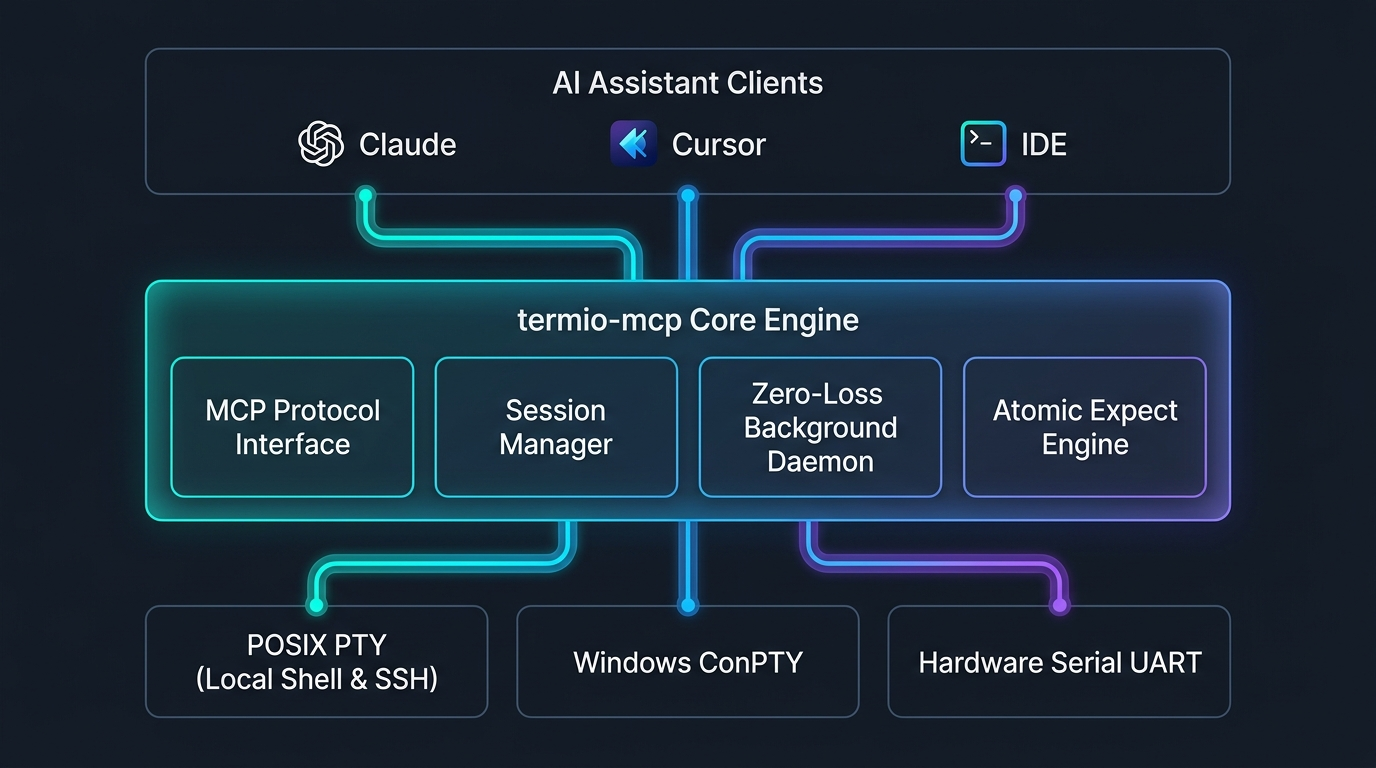
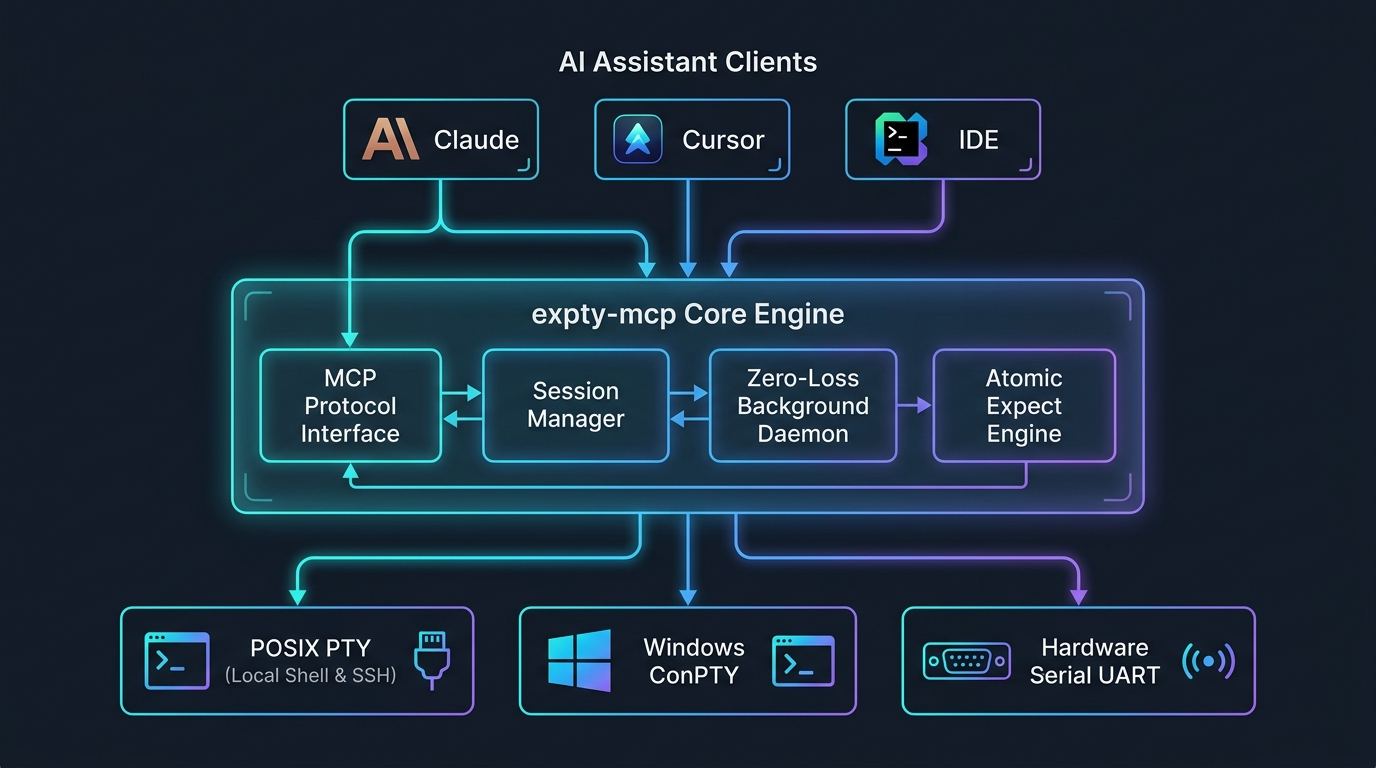
chore: rename project from termio-mcp to expty-mcp
- Rename package and import namespace from termio_mcp to expty_mcp
- Update package name to expty-mcp in pyproject.toml with expty and expty-mcp CLI scripts
- Refresh architecture diagram image with 'expty-mcp Core Engine' branding
- Update README documentation and client configuration snippets to use expty
- Update all test imports and verify 100% test pass rate

Changed region(s): [[0.0938, 0.0625, 0.9062, 0.9375]]

diff --git a/tests/test_transport_winpty.py b/tests/test_transport_winpty.py
@@ -2,8 +2,8 @@ from unittest.mock import MagicMock, patch
 
 import pytest
 
-from termio_mcp.transport.base import BaseTransport
-from termio_mcp.transport.factory import get_default_shell
+from expty_mcp.transport.base import BaseTransport
+from expty_mcp.transport.factory import get_default_shell
 
 
 def test_get_default_shell():
@@ -23,9 +23,9 @@ def test_winpty_transport_mocked():
     mock_winpty = MagicMock()
     mock_winpty.PtyProcess.spawn.return_value = mock_proc
 
-    with patch("termio_mcp.transport.winpty.WinPtyProcess", mock_winpty.PtyProcess):
-        with patch("termio_mcp.transport.winpty._WINPTY_AVAILABLE", True):
-            from termio_mcp.transport.winpty import WinPtyTransport
+    with patch("expty_mcp.transport.winpty.WinPtyProcess", mock_winpty.PtyProcess):
+        with patch("expty_mcp.transport.winpty._WINPTY_AVAILABLE", True):
+            from expty_mcp.transport.winpty import WinPtyTransport
 
             transport = WinPtyTransport(command="powershell.exe", rows=30, cols=100)
             assert isinstance(transport, BaseTransport)
@@ -60,9 +60,9 @@ def test_winpty_transport_queue_empty_and_eof():
     mock_winpty = MagicMock()
     mock_winpty.PtyProcess.spawn.return_value = mock_proc
 
-    with patch("termio_mcp.transport.winpty.WinPtyProcess", mock_winpty.PtyProcess):
-        with patch("termio_mcp.transport.winpty._WINPTY_AVAILABLE", True):
-            from termio_mcp.transport.winpty import WinPtyTransport
+    with patch("expty_mcp.transport.winpty.WinPtyProcess", mock_winpty.PtyProcess):
+        with patch("expty_mcp.transport.winpty._WINPTY_AVAILABLE", True):
+            from expty_mcp.transport.winpty import WinPtyTransport
 
             transport = WinPtyTransport(command="cmd.exe")
             # When queue is empty and process is alive, returns empty bytes
@@ -77,8 +77,8 @@ def test_winpty_transport_queue_empty_and_eof():
 
 
 def test_winpty_missing_dependency():
-    with patch("termio_mcp.transport.winpty._WINPTY_AVAILABLE", False):
-        from termio_mcp.transport.winpty import WinPtyTransport
+    with patch("expty_mcp.transport.winpty._WINPTY_AVAILABLE", False):
+        from expty_mcp.transport.winpty import WinPtyTransport
 
         with pytest.raises(RuntimeError, match="pywinpty is not installed"):
             WinPtyTransport(command="cmd.exe")

diff --git a/src/expty_mcp/server.py b/src/expty_mcp/server.py
@@ -20,7 +20,7 @@ logger = logging.getLogger(__name__)
 
 # Initialize FastMCP Server
 mcp = FastMCP(
-    name="termio-mcp",
+    name="expty",
     instructions=(
         "Universal interactive PTY and Serial stream manager for AI agents. "
         "Supports persistent SSH sessions, local shells, REPLs, hardware UARTs, "
@@ -283,7 +283,7 @@ def status(session_id: str | None = None) -> dict[str, Any]:
 
 
 def main():
-    """CLI Entrypoint for running termio-mcp server over stdio."""
+    """CLI Entrypoint for running expty-mcp server over stdio."""
     logging.basicConfig(
         level=logging.INFO,
         format="%(asctime)s [%(name)s] %(levelname)s: %(message)s",

diff --git a/tests/test_session.py b/tests/test_session.py
@@ -1,7 +1,7 @@
 import time
 
-from termio_mcp.session import InteractiveSession
-from termio_mcp.transport.pty import PtyTransport
+from expty_mcp.session import InteractiveSession
+from expty_mcp.transport.pty import PtyTransport
 
 
 def test_session_exec_expect_bash():
@@ -111,7 +111,7 @@ def test_session_history_timestamps_and_50ms_rule():
     """
     from unittest.mock import MagicMock
 
-    from termio_mcp.transport.base import BaseTransport
+    from expty_mcp.transport.base import BaseTransport
 
     mock_transport = MagicMock(spec=BaseTransport)
     mock_transport.is_alive.return_value = True

diff --git a/tests/test_pipeline.py b/tests/test_pipeline.py
@@ -1,4 +1,4 @@
-from termio_mcp.pipeline import decode_escape_sequences, strip_ansi
+from expty_mcp.pipeline import decode_escape_sequences, strip_ansi
 
 
 def test_decode_escape_sequences():

diff --git a/tests/test_transport_pty.py b/tests/test_transport_pty.py
@@ -1,6 +1,6 @@
 import time
 
-from termio_mcp.transport.pty import PtyTransport
+from expty_mcp.transport.pty import PtyTransport
 
 
 def test_pty_transport_lifecycle():

diff --git a/tests/test_manager.py b/tests/test_manager.py
@@ -1,6 +1,6 @@
 import pytest
 
-from termio_mcp.manager import SessionManager
+from expty_mcp.manager import SessionManager
 
 
 def test_manager_lifecycle():

diff --git a/src/expty_mcp/__init__.py b/src/expty_mcp/__init__.py
@@ -1,0 +1,5 @@
+"""
+expty-mcp: High-performance Model Context Protocol server for interactive PTY and Serial streams.
+"""
+
+__version__ = "0.1.0"
